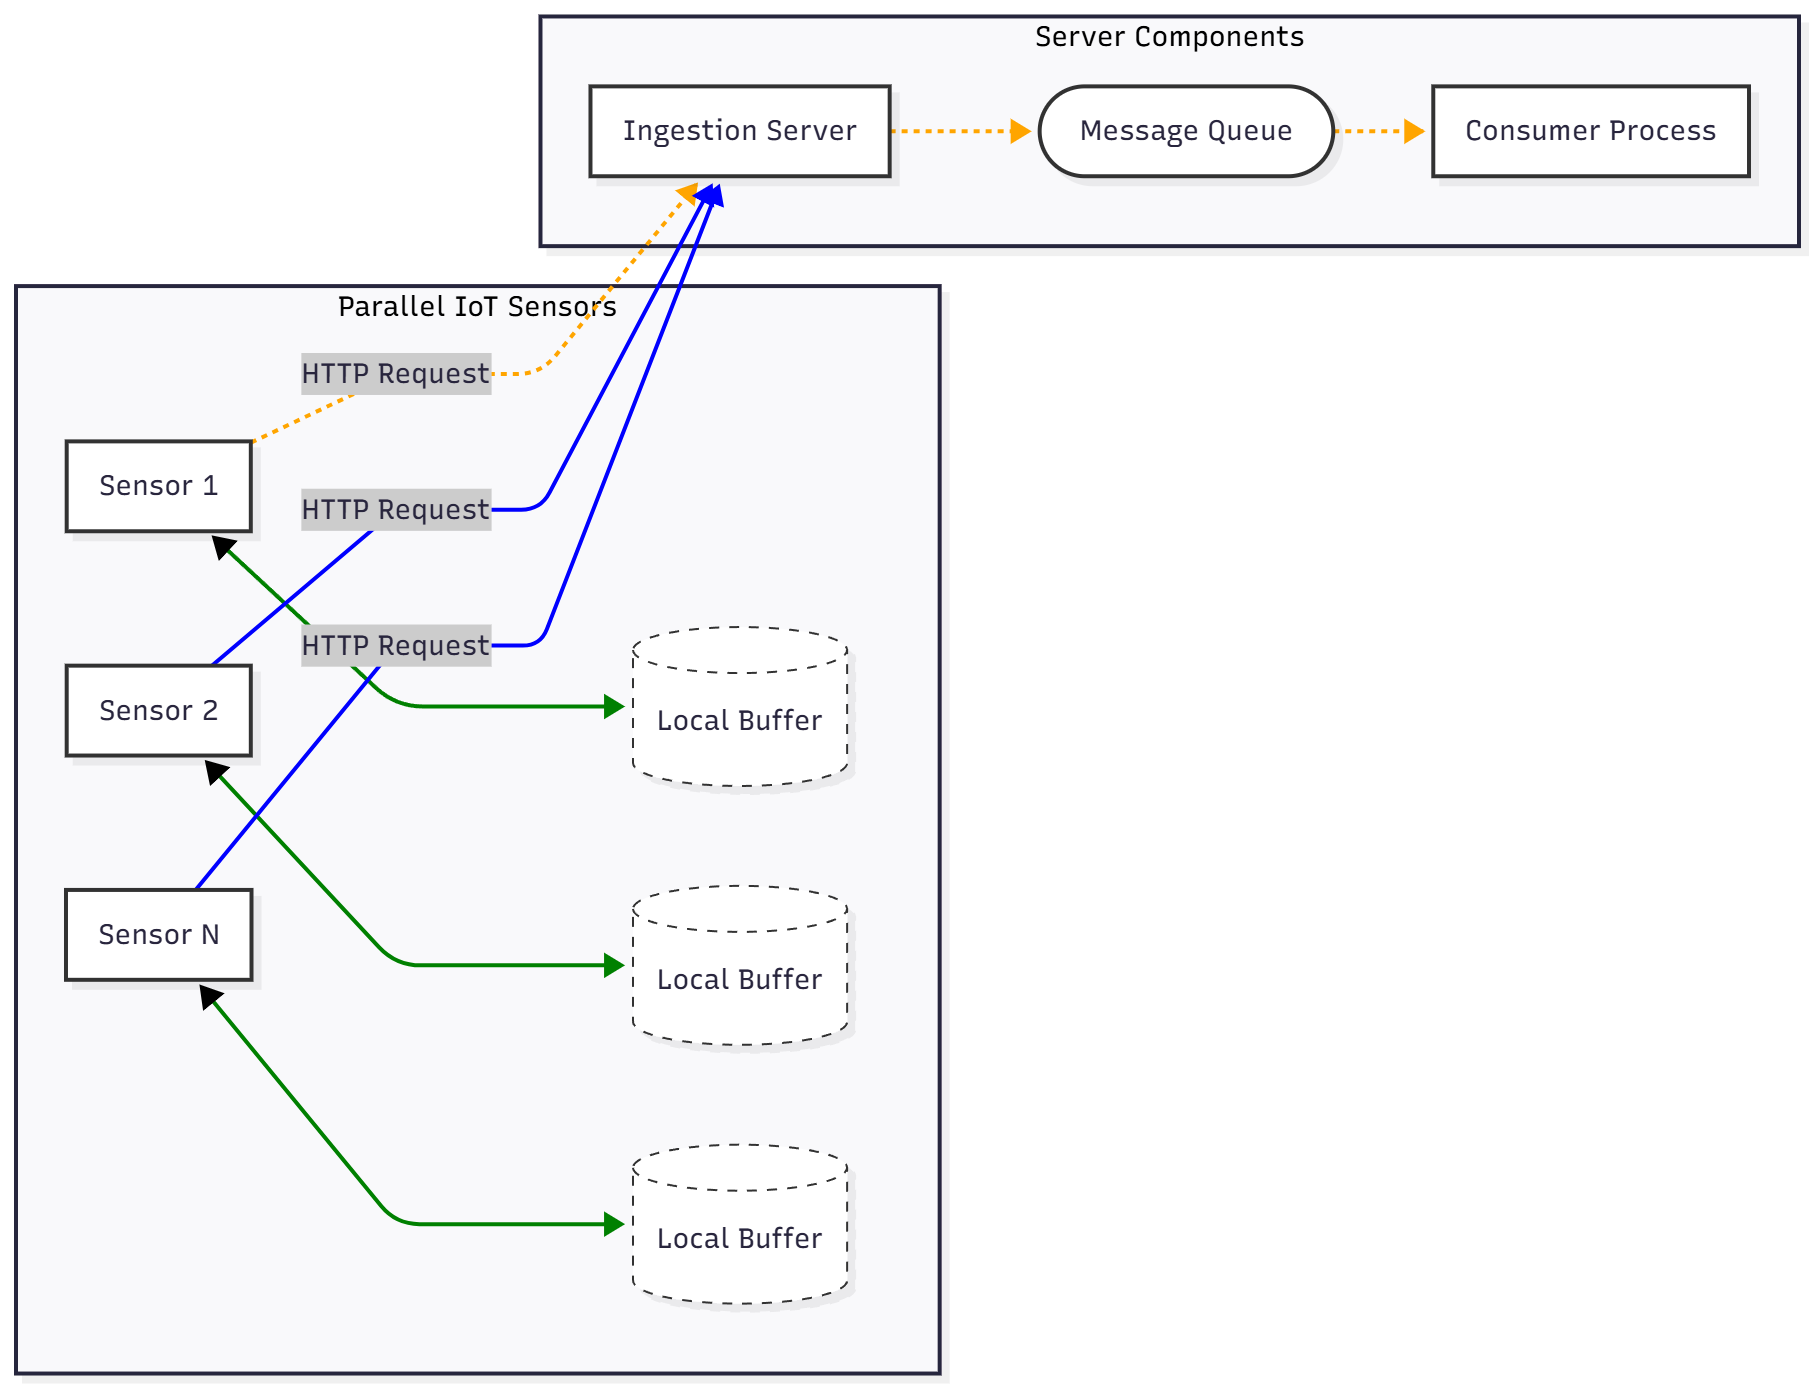
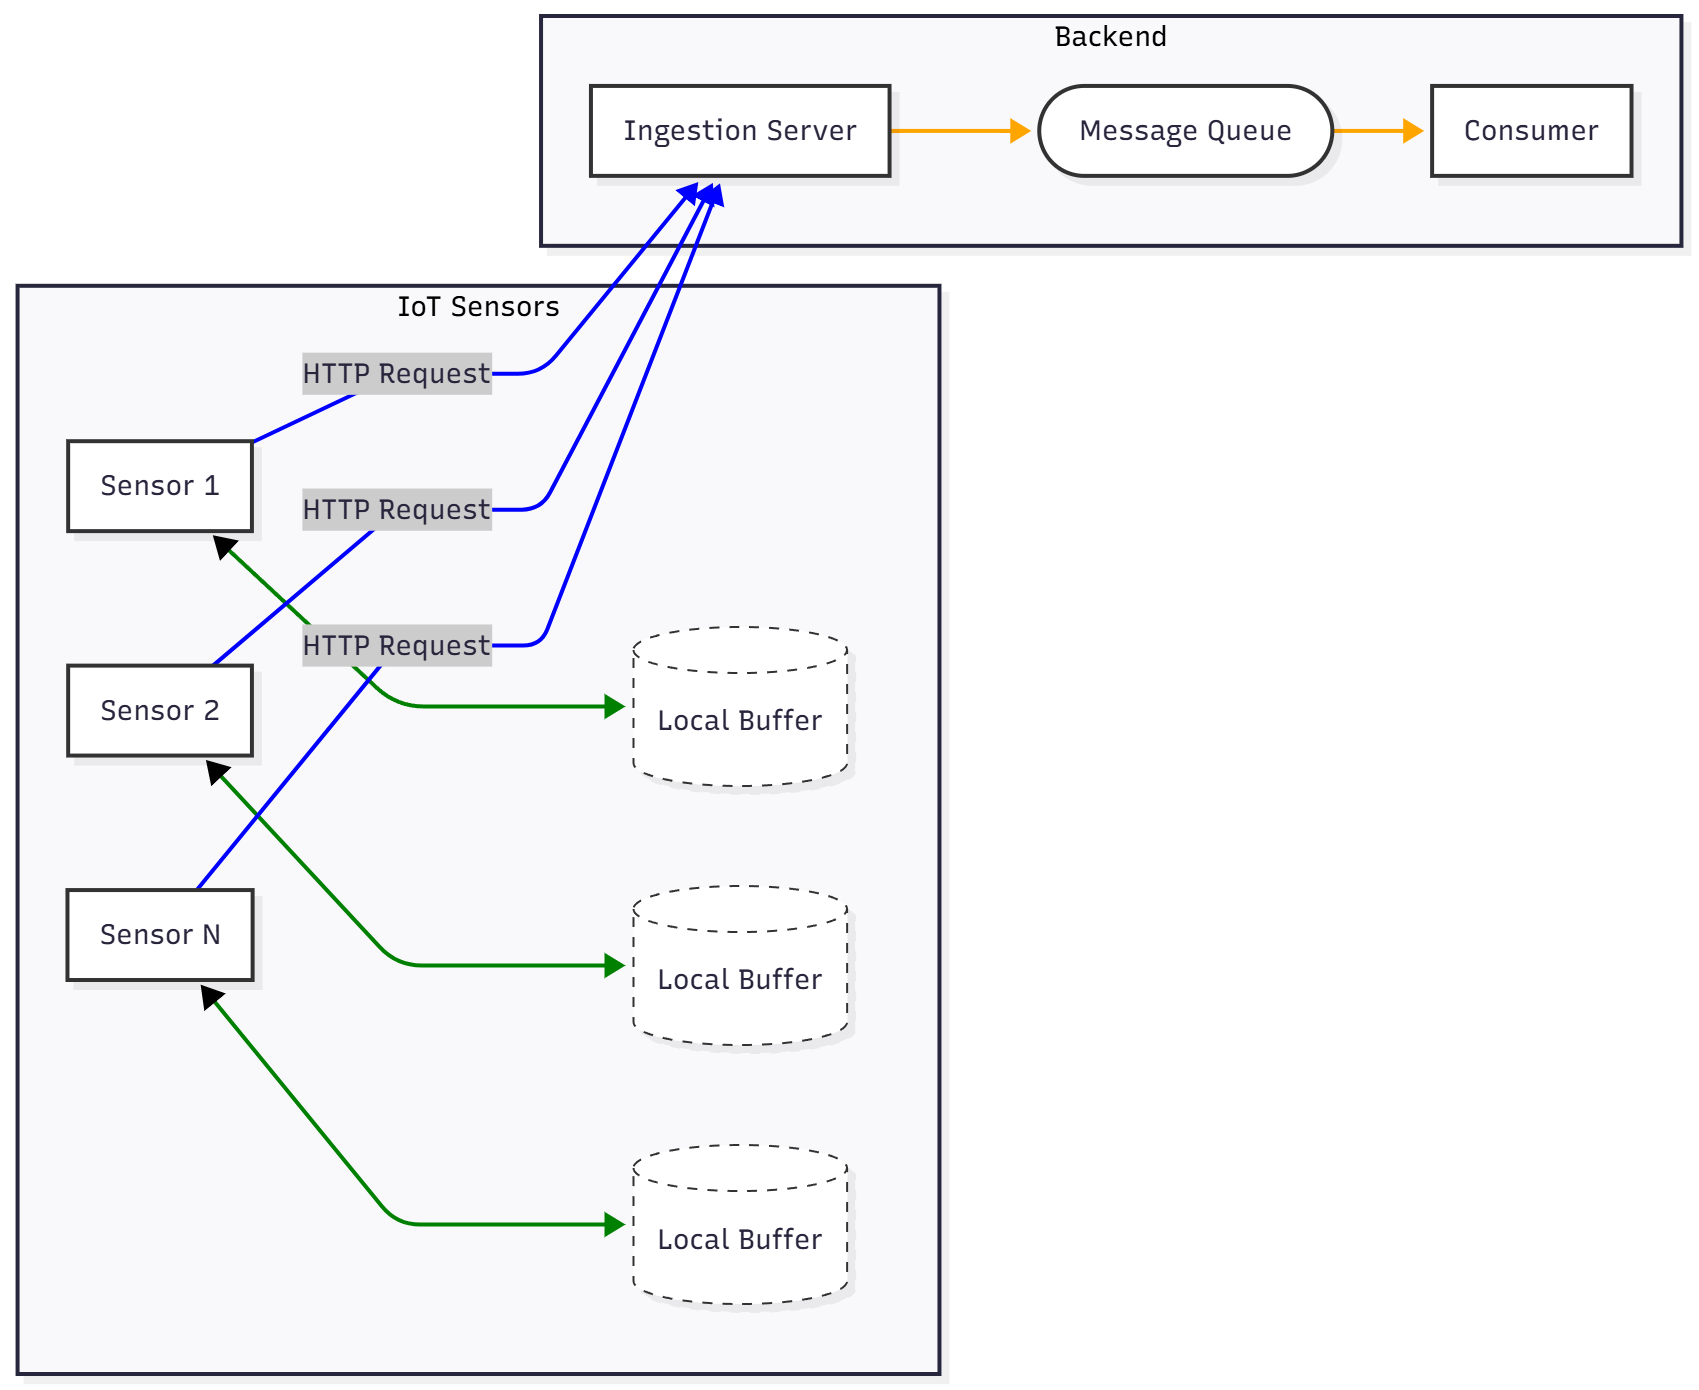
Added Context diagram

diff --git a/report/team_20_heron_report.md b/report/team_20_heron_report.md
@@ -106,7 +106,7 @@ Compliance with data protection and privacy regulations (such as GDPR) is essent
 **User Engagement and Feedback**  
 The system’s AI requires ongoing user interactions to refine its suggestions and adapt to individual preferences. Adoption and sustained engagement depend on intuitive interfaces, clear benefits, and user trust (Zigpoll, 2023). If the system proves overly complex or fails to establish trust, potential users may hesitate to engage with it (Fischer et al.). The system's AI is not static and so it requires continuous user interaction to refine its understanding of preferences. It depends on users actively confirming, rejecting, or modifying the automations it suggests. If the interface for providing feedback is unappealing, users may become passive.
 
-TODO: Add context diagram
+![Context Diagram](images/Context_Diagram.png)
 
 ## Ethical Implications and Mitigations
 
